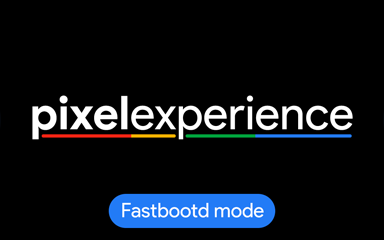
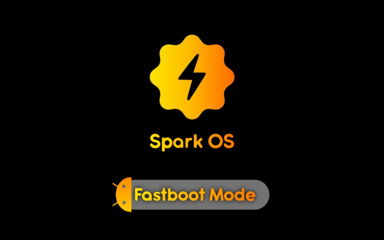
Revamp Ui for spark

Changed region(s): [[0.0625, 0.1458, 0.9375, 0.6417], [0.2812, 0.7292, 0.7188, 0.9625]]

diff --git a/recovery_ui/screen_ui.cpp b/recovery_ui/screen_ui.cpp
@@ -564,21 +564,21 @@ void ScreenRecoveryUI::draw_foreground_locked() {
   }
 }
 
-/* pixel blue: #227BF6 */
+/* spark orange: #FE7600 */
 void ScreenRecoveryUI::SetColor(UIElement e) const {
   switch (e) {
     case UIElement::INFO:
-        gr_color(0x22, 0x7b, 0xf6, 255);
+        gr_color(254, 118, 0, 255);
       break;
     case UIElement::HEADER:
-        gr_color(0x22, 0x7b, 0xf6, 255);
+        gr_color(254, 118, 0, 255);
       break;
     case UIElement::MENU:
       gr_color(0xd8, 0xd8, 0xd8, 255);
       break;
     case UIElement::MENU_SEL_BG:
     case UIElement::SCROLLBAR:
-        gr_color(0x22, 0x7b, 0xf6, 255);
+        gr_color(254, 118, 0, 255);
       break;
     case UIElement::MENU_SEL_BG_ACTIVE:
       gr_color(0, 156, 100, 255);
